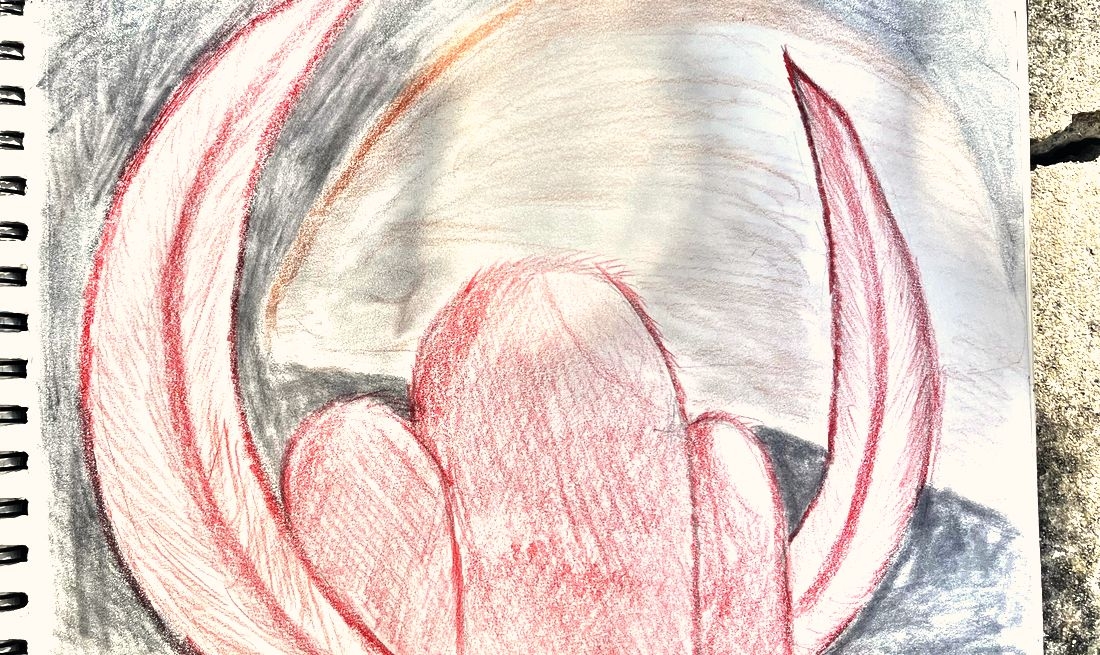
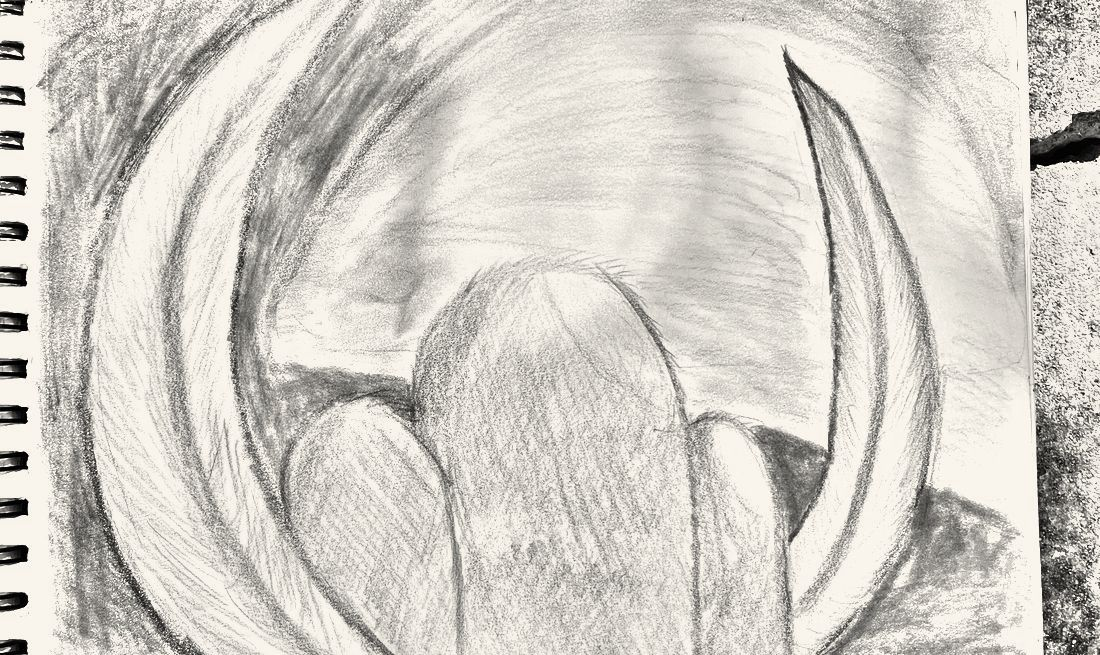
Книга: стрелки глав, закреплённое название, спокойные рисунки без повторов
Claude-Session: https://claude.ai/code/session_015SEiX5ee11vBevYyttn2Fd

diff --git a/app.js b/app.js
@@ -59,6 +59,7 @@ const FRAMES = {
 /* номера абзацев, где меняются рисунки (абзацы в русской и английской версиях совпадают) */
 const DEFAULT_ART = ['dryad','weaver','keeper_paper','liora','cat','forest','weaver_forest','pak','cat','cat','shiny','crystal','liora_dead','weaver_symbol'];
 for (let c = 0; c < window.CHAPTERS.length; c++) if (!FRAMES[c]) FRAMES[c] = [['', DEFAULT_ART[c] || 'dryad', 'pan-in']];
+Object.keys(FRAMES).forEach(c => { const seen = new Set(); FRAMES[c] = FRAMES[c].filter(f => { if (seen.has(f[1])) return false; seen.add(f[1]); return true; }); });
 const FIDX = {}; Object.keys(FRAMES).forEach(c => { const P = window.CHAPTERS[c].paras; FIDX[c] = FRAMES[c].map(f => f[0] ? P.findIndex(p => p.startsWith(f[0])) : 0); });
 
 /* сцены */
@@ -239,14 +240,15 @@ let R = null;
 const IMG = k => `assets/img/${k}.jpg?v=3`;
 function startRead(ch, then){
   const c = CH(ch); app.className = 'mode-read'; document.body.classList.add('reading');
-  $('chapTitle').textContent = c.title; textEl.innerHTML = ''; pages.scrollTop = 0;
+  $('chapTitle').textContent = c.title; $('chapNum').textContent = ch === 0 ? (LANG === 'en' ? 'Prologue' : 'Пролог') : (LANG === 'en' ? 'Chapter ' : 'Глава ') + ch;
+  $('prevCh').disabled = ch === 0; $('nextChTop').disabled = ch >= window.CHAPTERS.length - 1; textEl.innerHTML = ''; pages.scrollTop = 0;
   R = {ch, then, i:0, frame:-1}; setFrame(0); $('nextCh').hidden = true; document.querySelector('.readnav').classList.remove('done'); $('moreBtn').hidden = false; $('allBtn').hidden = false; $('moreBtn').textContent = tr(UI.more); $('allBtn').textContent = tr(UI.all);
   revealMore();
 }
 function setFrame(k){
   const f = FRAMES[R.ch][k]; if (!f || k === R.frame) return; R.frame = k;
   const a = $('artImg'), b = $('artImg2'); const cur = a.classList.contains('next') ? b : a, nxt = cur === a ? b : a;
-  nxt.src = IMG(f[1]); nxt.className = f[2]; requestAnimationFrame(() => { nxt.classList.remove('next'); cur.classList.add('next'); });
+  nxt.src = IMG(f[1]); nxt.className = ''; requestAnimationFrame(() => { nxt.classList.remove('next'); cur.classList.add('next'); });
   if (f[3]) act(f[3]);
 }
 function addPara(){
@@ -277,7 +279,10 @@ function chapterDone(){
   if (!b.hidden) b.innerHTML = `<small>${LANG === 'en' ? 'Next chapter' : 'Следующая глава'}</small><span>${esc(CH(nx).title)} →</span>`;
   document.querySelector('.readnav').classList.add('done');
 }
-$('nextCh').onclick = () => { const nx = R.ch + 1; token++; startRead(nx, null); pages.scrollTop = 0; };
+function gotoCh(n){ if (!R || n < 0 || n >= window.CHAPTERS.length) return; token++; startRead(n, null); pages.scrollTop = 0; }
+$('nextCh').onclick = () => gotoCh(R.ch + 1);
+$('nextChTop').onclick = () => gotoCh(R.ch + 1);
+$('prevCh').onclick = () => gotoCh(R.ch - 1);
 document.addEventListener('keydown', e => { if (app.classList.contains('mode-read') && (e.key===' '||e.key==='ArrowRight') && document.activeElement.tagName!=='INPUT'){ e.preventDefault(); $('moreBtn').click(); } });
 function endRead(){ S.read = Math.max(S.read, R.ch + 1); save(); const then = R.then; R = null; if (then) go(then); else go(S.resume || 'later'); }
 
@@ -497,8 +502,8 @@ function openSong(id){ openPanel('music'); openDetail(id, false); }
 function renderBook(){
   const ol = $('tocList'); ol.innerHTML = '';
   titles().forEach((t, i) => { const li = document.createElement('li'); const b = document.createElement('button'); b.className = 'ch';
-    const have = i < window.CHAPTERS.length, ok = have && i <= S.read; b.disabled = !ok;
-    b.innerHTML = `<span class="n">${i===0?'·':i}</span><span>${esc(t)}</span>` + (!have ? ` <span class="n">${tr(UI.soonLow)}</span>` : (i > S.read ? ` <span class="n">${tr(UI.early)}</span>` : ''));
+    const have = i < window.CHAPTERS.length, ok = have; b.disabled = !ok;
+    b.innerHTML = `<span class="n">${i===0?(LANG==='en'?'Prologue':'Пролог'):i}</span><span>${esc(t)}</span>` + (!have ? ` <span class="n">${tr(UI.soonLow)}</span>` : '');
     b.onclick = () => { closePanels(); token++; startRead(i, null); }; li.appendChild(b); ol.appendChild(li); });
 }
 

diff --git a/index.html b/index.html
@@ -7,7 +7,7 @@
 <meta name="description" content="Мир Дриады. Кипер помнит всё, только не по порядку. Садись, он расскажет.">
 <link rel="preconnect" href="https://fonts.googleapis.com">
 <link href="https://fonts.googleapis.com/css2?family=Alice&family=Caveat:wght@400;600&family=PT+Serif:ital@0;1&family=Forum&family=Literata:ital,opsz,wght@0,7..72,400;0,7..72,500;1,7..72,400&display=swap" rel="stylesheet">
-<link rel="stylesheet" href="style.css?v=34">
+<link rel="stylesheet" href="style.css?v=37">
 </head>
 <body>
 <svg id="roots" aria-hidden="true"></svg>
@@ -31,7 +31,7 @@
     <button class="toKeeper" id="toKeeper" data-i18n="toKeeperArrow">← К Киперу</button>
     <div class="art"><img id="artImg" alt=""><img id="artImg2" alt="" class="next"></div>
     <div class="pages">
-      <p class="chap" id="chapTitle"></p>
+      <div class="chap-bar"><button class="chap-nav" id="prevCh" aria-label="Предыдущая глава">←</button><div class="chap-head"><small id="chapNum"></small><p class="chap" id="chapTitle"></p></div><button class="chap-nav" id="nextChTop" aria-label="Следующая глава">→</button></div>
       <div class="text" id="text"></div>
       <div class="readnav">
         <button class="more" id="moreBtn">Дальше</button>
@@ -188,7 +188,7 @@
 
 <!-- book in order -->
 <aside class="panel" id="toc" hidden>
-  <div class="panel-head"><p class="panel-title" data-i18n="book">Книга</p><button class="back" data-close data-i18n="close">Закрыть</button></div>
+  <div class="panel-head"><p class="panel-title" data-i18n="book">Книга</p><button class="bigx" data-close aria-label="Закрыть">×</button></div>
   <p class="panel-lead" data-i18n="bookLead">Ну если ты настаиваешь на порядке…</p>
   <ol id="tocList"></ol>
   <button class="linkish" id="resetBtn" data-i18n="reset">Начать всё сначала</button>
@@ -211,6 +211,6 @@
 
 <script src="assets/chapters.js?v=30"></script>
 <script src="assets/songs.js?v=6"></script>
-<script src="app.js?v=34"></script>
+<script src="app.js?v=36"></script>
 </body>
 </html>

diff --git a/style.css b/style.css
@@ -614,3 +614,19 @@ body.reading .vin.show{transform:scale(.8)}
 .person .chat-form{margin-top:10px}
 @media (max-width:760px){.talklog{max-height:none}}
 .person-art img{width:auto;max-width:100%;height:auto}
+/* книга: закреплённое название главы, стрелки назад/вперёд, спокойные рисунки */
+.chap-bar{position:sticky;top:-1px;z-index:3;display:flex;align-items:center;gap:14px;background:linear-gradient(#0a0a0a 82%,transparent);padding:14px 0 16px;margin:0 0 6px;max-width:36rem}
+.chap-head{flex:1;min-width:0}
+.chap-head small{display:block;font-family:'PT Serif',Georgia,serif;font-size:.74rem;letter-spacing:.16em;text-transform:uppercase;color:#8f8f8f}
+.chap-bar .chap{margin:2px 0 0;font-size:clamp(1.5rem,3vw,2.2rem)}
+.chap-nav{flex:none;width:42px;height:42px;border-radius:50%;border:1px solid #444;background:none;color:#e6e6e6;font-size:1.15rem;cursor:pointer}
+.chap-nav:hover:not(:disabled){border-color:#ddd;color:#fff}
+.chap-nav:disabled{opacity:.25;cursor:default}
+.pages{padding-top:60px}
+.art img{animation:none!important;transform:none!important;transition:opacity 1.6s ease}
+.bigx{margin-left:auto;background:none;border:0;color:#cfcfcf;font-size:2.6rem;line-height:1;cursor:pointer;padding:0 4px;font-weight:300}
+.bigx:hover{color:#fff}
+@media (max-width:760px){.pages{padding-top:6px}.chap-nav{width:36px;height:36px}}
+@media (min-width:761px){.pages{padding-top:0}.chap-bar{top:0;padding-top:64px}}
+.chap-bar{margin-left:-2px;padding-right:4px}
+@media (min-width:761px){.read .art{margin-top:56px}}
